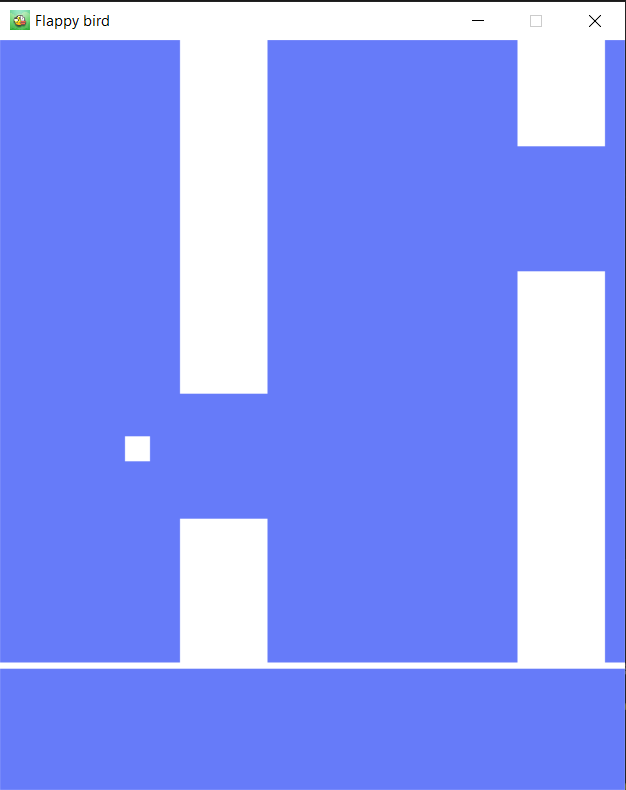
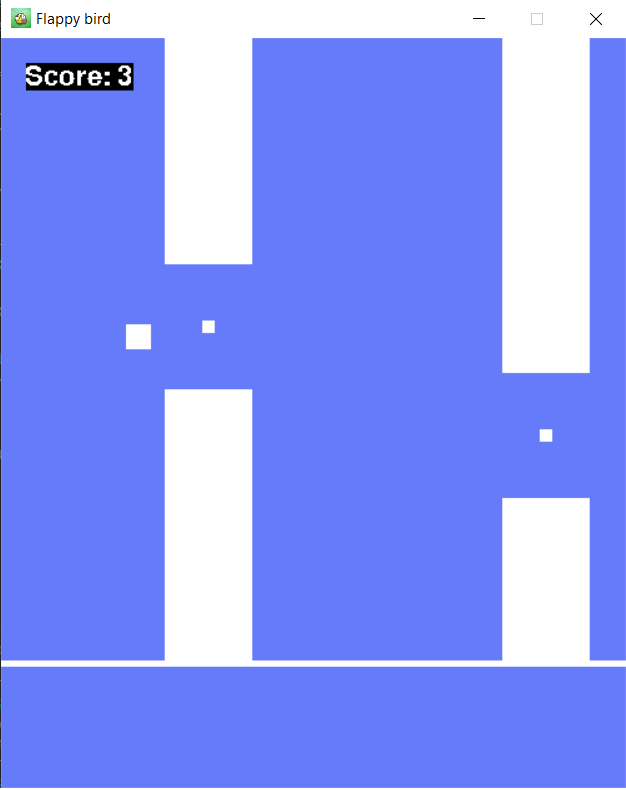
Added Score

diff --git a/flappy_bird_1.py b/flappy_bird_1.py
@@ -33,6 +33,11 @@ block_2 = create_block(SCREEN_WIDTH + 300)
 blocks = block_1 + block_2
 block_speed = 1
 
+# Create point
+score = 0
+coin_1 = pygame.Rect(block_1[0].left + 30, block_1[0].height + 45, 10, 10)
+coin_2 = pygame.Rect(block_2[0].left + 30, block_2[0].height + 45, 10, 10)
+
 # Draw floor (surface, color, start_pos, end_pos, width)
 floor = pygame.draw.line(screen, WHITE, (0, SCREEN_HEIGHT - 100), (SCREEN_WIDTH, SCREEN_HEIGHT - 100), width=5)
 
@@ -58,7 +63,8 @@ while running:
     pygame.draw.rect(screen, WHITE, floor)
     for block in blocks:
         pygame.draw.rect(screen, WHITE, block)
-
+    pygame.draw.rect(screen, WHITE, coin_1)
+    pygame.draw.rect(screen, WHITE, coin_2)
 
     # If bird jumps
     if jumping:
@@ -74,13 +80,19 @@ while running:
     block_1[1].x -= block_speed
     block_2[0].x -= block_speed
     block_2[1].x -= block_speed
+    coin_1.x -= block_speed
+    coin_2.x -= block_speed
 
     # If blocks go out of the screen
     if block_1[0].x and block_1[1].x <= -70:
         place_block(block_1[0], block_1[1], SCREEN_WIDTH)
+        coin_1.left = block_1[0].left + 30
+        coin_1.top = block_1[0].height + 45
 
     if block_2[0].x and block_2[1].x <= -70:
         place_block(block_2[0], block_2[1], SCREEN_WIDTH)
+        coin_2.left = block_2[0].left + 30
+        coin_2.top = block_2[0].height + 45
 
 
     # If player touches floor or building blocks
@@ -93,6 +105,16 @@ while running:
         screen.blit(GAME_OVER_TEXT, (SCREEN_WIDTH / 2, SCREEN_HEIGHT / 2))
         game_over = True
         
+    if bird.colliderect(coin_1) or bird.colliderect(coin_2):
+        score += 1
+        if bird.colliderect(coin_1):
+            coin_1.x = -10
+        else:
+            coin_2.x = -10
+
+    score_text = FONT.render(f"Score: {score}", False, WHITE, BLACK)
+    screen.blit(score_text, (20, 20))
+    
     
     pygame.display.update()
     clock.tick(60)
